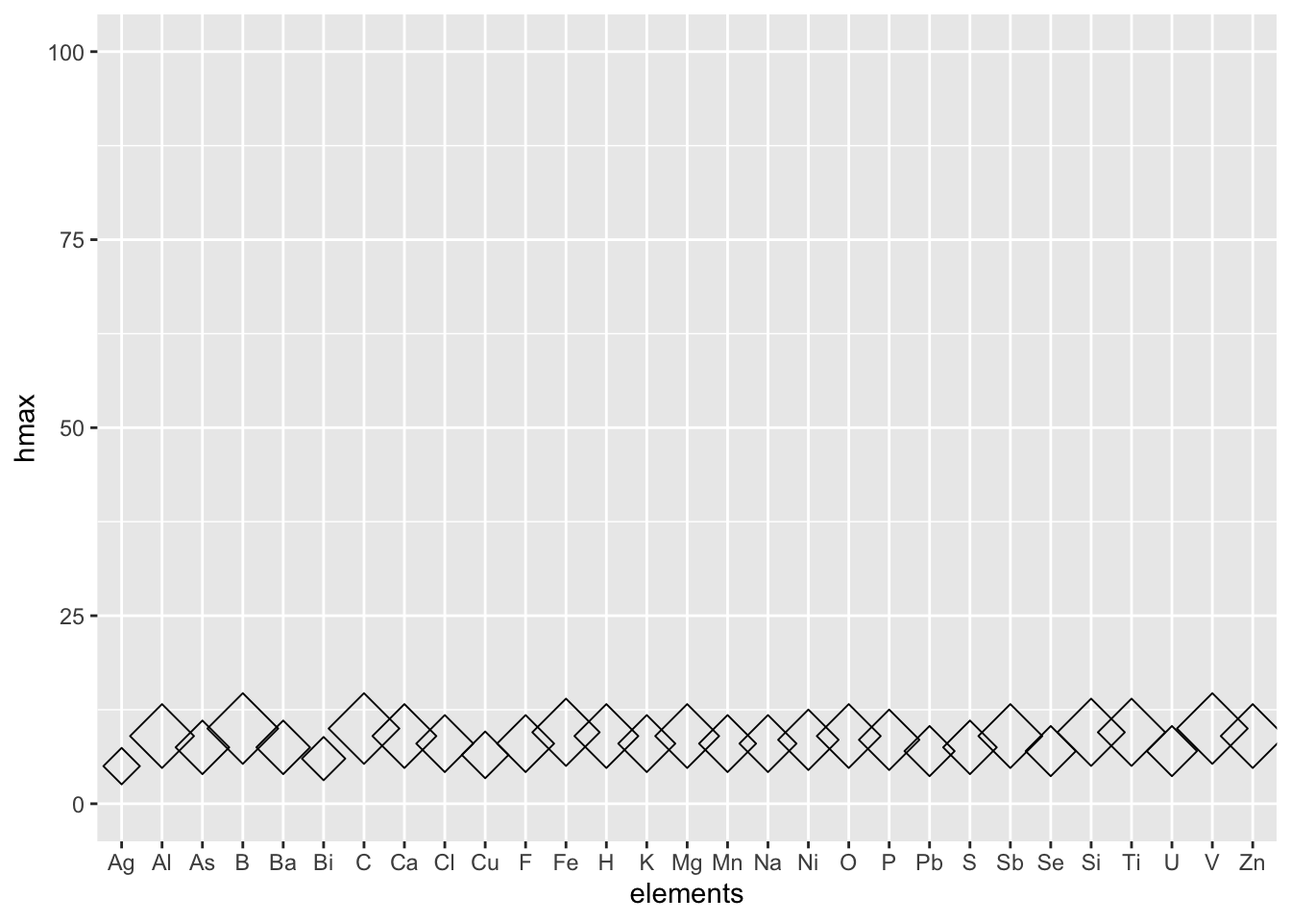
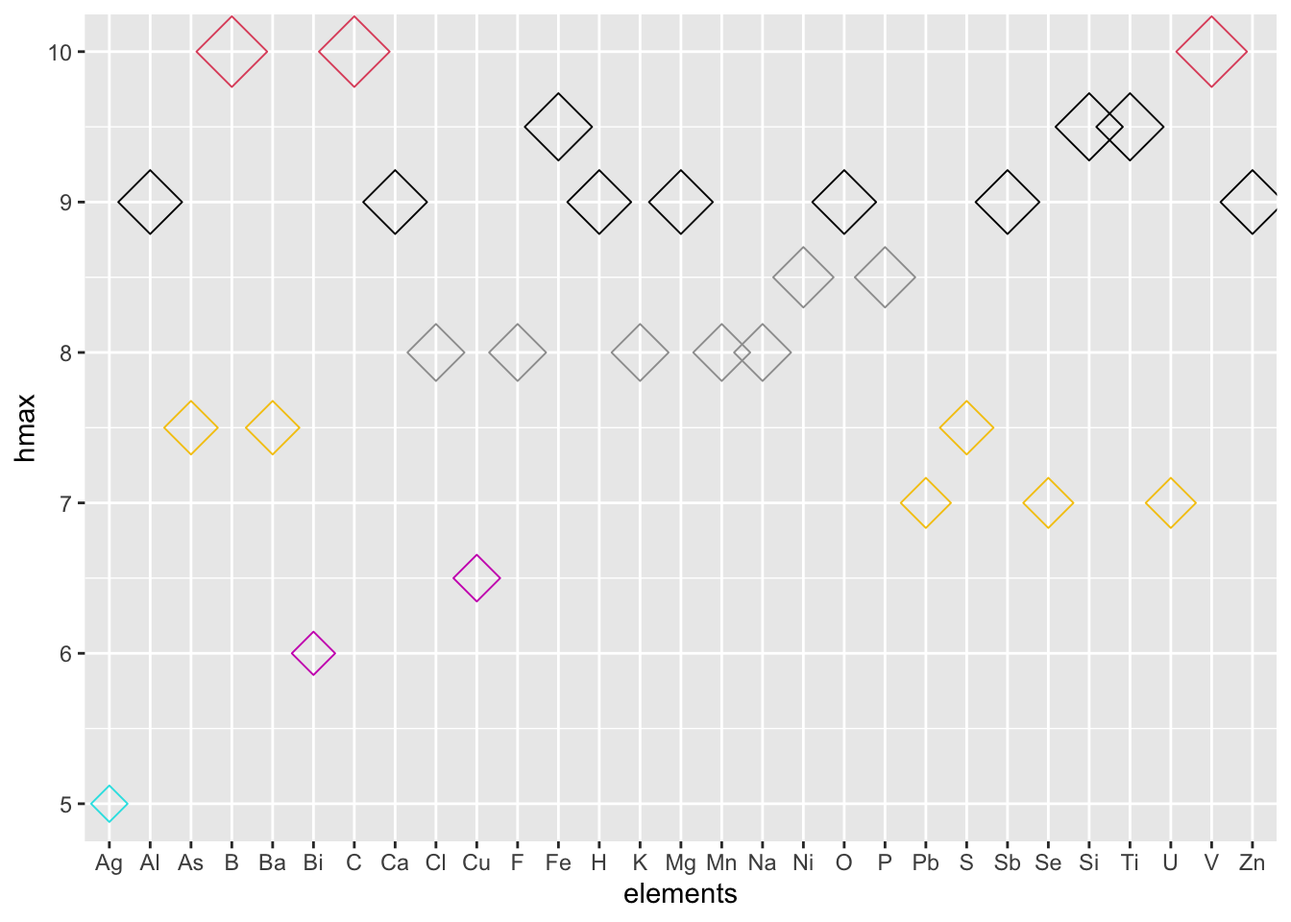
assg4 plus

Changed region(s): [[0.0312, 0.0, 0.9688, 1.0], [0.125, 0.0, 0.3125, 0.0938], [0.9375, 0.2188, 0.9688, 0.25]]

diff --git a/docs/posts/assignment-4/index.html b/docs/posts/assignment-4/index.html
@@ -221,7 +221,7 @@ code span.wa { color: #60a0b0; font-weight: bold; font-style: italic; } /* Warni
 <summary>Code</summary>
 <div class="sourceCode cell-code" id="cb1"><pre class="sourceCode r code-with-copy"><code class="sourceCode r"><span id="cb1-1"><a href="#cb1-1" aria-hidden="true" tabindex="-1"></a><span class="fu">library</span>(tidyverse)</span>
 <span id="cb1-2"><a href="#cb1-2" aria-hidden="true" tabindex="-1"></a><span class="co"># result &lt;- read.csv(file = 'total_elements_mindat.csv')</span></span>
-<span id="cb1-3"><a href="#cb1-3" aria-hidden="true" tabindex="-1"></a>df_72 <span class="ot">&lt;-</span> <span class="fu">read.csv</span>(<span class="at">file =</span> <span class="st">'hardness.csv'</span>)</span>
+<span id="cb1-3"><a href="#cb1-3" aria-hidden="true" tabindex="-1"></a><span class="co"># df_72 &lt;- read.csv(file = 'hardness.csv')</span></span>
 <span id="cb1-4"><a href="#cb1-4" aria-hidden="true" tabindex="-1"></a>df_30 <span class="ot">&lt;-</span> <span class="fu">read.csv</span>(<span class="at">file =</span> <span class="st">'hardness_30.csv'</span>)</span></code><button title="Copy to Clipboard" class="code-copy-button"><i class="bi"></i></button></pre></div>
 </details>
 </div>
@@ -247,9 +247,22 @@ code span.wa { color: #60a0b0; font-weight: bold; font-style: italic; } /* Warni
 </div>
 <details>
 <summary>Code</summary>
-<div class="sourceCode cell-code" id="cb4"><pre class="sourceCode r code-with-copy"><code class="sourceCode r"><span id="cb4-1"><a href="#cb4-1" aria-hidden="true" tabindex="-1"></a><span class="fu">ggplot</span>(df_30, <span class="fu">aes</span>(<span class="at">x=</span>elements, <span class="at">y=</span>X)) <span class="sc">+</span></span>
-<span id="cb4-2"><a href="#cb4-2" aria-hidden="true" tabindex="-1"></a>  <span class="fu">geom_point</span>(<span class="at">size=</span><span class="dv">2</span>, <span class="at">shape=</span><span class="dv">23</span>)</span></code><button title="Copy to Clipboard" class="code-copy-button"><i class="bi"></i></button></pre></div>
+<div class="sourceCode cell-code" id="cb4"><pre class="sourceCode r code-with-copy"><code class="sourceCode r"><span id="cb4-1"><a href="#cb4-1" aria-hidden="true" tabindex="-1"></a><span class="co"># ggplot(df_30, aes(x=elements, y=X)) +</span></span>
+<span id="cb4-2"><a href="#cb4-2" aria-hidden="true" tabindex="-1"></a><span class="fu">ggplot</span>(df_30, <span class="fu">aes</span>(<span class="at">x=</span><span class="fu">factor</span>(elements, <span class="at">level=</span>elements), <span class="at">y=</span>X)) <span class="sc">+</span></span>
+<span id="cb4-3"><a href="#cb4-3" aria-hidden="true" tabindex="-1"></a>  <span class="fu">geom_point</span>(<span class="at">size=</span><span class="dv">2</span>, <span class="at">shape=</span><span class="fu">as.integer</span>(df_30<span class="sc">$</span>X))</span></code><button title="Copy to Clipboard" class="code-copy-button"><i class="bi"></i></button></pre></div>
 </details>
+<div class="cell-output cell-output-stderr">
+<pre><code>Warning in grid.Call.graphics(C_points, x$x, x$y, x$pch, x$size): unimplemented
+pch value '26'</code></pre>
+</div>
+<div class="cell-output cell-output-stderr">
+<pre><code>Warning in grid.Call.graphics(C_points, x$x, x$y, x$pch, x$size): unimplemented
+pch value '27'</code></pre>
+</div>
+<div class="cell-output cell-output-stderr">
+<pre><code>Warning in grid.Call.graphics(C_points, x$x, x$y, x$pch, x$size): unimplemented
+pch value '28'</code></pre>
+</div>
 <div class="cell-output-display">
 <p><img src="index_files/figure-html/unnamed-chunk-2-1.png" class="img-fluid" width="672"></p>
 </div>
@@ -257,25 +270,13 @@ code span.wa { color: #60a0b0; font-weight: bold; font-style: italic; } /* Warni
 </section>
 <section id="discriminability" class="level3">
 <h3 class="anchored" data-anchor-id="discriminability">Discriminability</h3>
+<p>In terms of discriminability, we believe the larger the axis, the more details can viz to reveal.</p>
 <div class="cell">
 <details>
 <summary>Code</summary>
-<div class="sourceCode cell-code" id="cb5"><pre class="sourceCode r code-with-copy"><code class="sourceCode r"><span id="cb5-1"><a href="#cb5-1" aria-hidden="true" tabindex="-1"></a><span class="fu">head</span>(df_30)</span></code><button title="Copy to Clipboard" class="code-copy-button"><i class="bi"></i></button></pre></div>
-</details>
-<div class="cell-output cell-output-stdout">
-<pre><code>  X elements hmin hmin_mineral hmax hmax_mineral hmean
-1 0        H  0.5    Rectorite    9    Bahianite    NA
-2 1        B  1.0   Barberiite   10  Qingsongite    NA
-3 2        C  1.0    Acetamide   10      Diamond    NA
-4 3        O  0.5    Rectorite    9    Bahianite    NA
-5 4        F  1.0   Barberiite    8        Topaz    NA
-6 5       Na  0.5    Rectorite    8 Diaoyudaoite    NA</code></pre>
-</div>
-<details>
-<summary>Code</summary>
-<div class="sourceCode cell-code" id="cb7"><pre class="sourceCode r code-with-copy"><code class="sourceCode r"><span id="cb7-1"><a href="#cb7-1" aria-hidden="true" tabindex="-1"></a><span class="fu">ggplot</span>(df_30, <span class="fu">aes</span>(<span class="at">x=</span>elements, <span class="at">y=</span>hmin)) <span class="sc">+</span></span>
-<span id="cb7-2"><a href="#cb7-2" aria-hidden="true" tabindex="-1"></a>  <span class="fu">ylim</span>(<span class="dv">0</span>, <span class="dv">100</span>) <span class="sc">+</span></span>
-<span id="cb7-3"><a href="#cb7-3" aria-hidden="true" tabindex="-1"></a>  <span class="fu">geom_point</span>(<span class="at">size=</span><span class="dv">2</span>, <span class="at">shape=</span><span class="dv">23</span>)</span></code><button title="Copy to Clipboard" class="code-copy-button"><i class="bi"></i></button></pre></div>
+<div class="sourceCode cell-code" id="cb8"><pre class="sourceCode r code-with-copy"><code class="sourceCode r"><span id="cb8-1"><a href="#cb8-1" aria-hidden="true" tabindex="-1"></a><span class="fu">ggplot</span>(df_30, <span class="fu">aes</span>(<span class="at">x=</span>elements, <span class="at">y=</span>hmin)) <span class="sc">+</span></span>
+<span id="cb8-2"><a href="#cb8-2" aria-hidden="true" tabindex="-1"></a>  <span class="fu">ylim</span>(<span class="dv">0</span>, <span class="dv">100</span>) <span class="sc">+</span></span>
+<span id="cb8-3"><a href="#cb8-3" aria-hidden="true" tabindex="-1"></a>  <span class="fu">geom_point</span>(<span class="at">size=</span><span class="dv">2</span>, <span class="at">shape=</span><span class="dv">23</span>)</span></code><button title="Copy to Clipboard" class="code-copy-button"><i class="bi"></i></button></pre></div>
 </details>
 <div class="cell-output-display">
 <p><img src="index_files/figure-html/unnamed-chunk-3-1.png" class="img-fluid" width="672"></p>
@@ -284,55 +285,30 @@ code span.wa { color: #60a0b0; font-weight: bold; font-style: italic; } /* Warni
 </section>
 <section id="separability" class="level3">
 <h3 class="anchored" data-anchor-id="separability">Separability</h3>
+<p>We noticed that the values of ‘hmin’ are too small to tell, so we amplified it by applying exponential transform.</p>
 <div class="cell">
 <details>
 <summary>Code</summary>
-<div class="sourceCode cell-code" id="cb8"><pre class="sourceCode r code-with-copy"><code class="sourceCode r"><span id="cb8-1"><a href="#cb8-1" aria-hidden="true" tabindex="-1"></a><span class="fu">head</span>(df_30)</span></code><button title="Copy to Clipboard" class="code-copy-button"><i class="bi"></i></button></pre></div>
-</details>
-<div class="cell-output cell-output-stdout">
-<pre><code>  X elements hmin hmin_mineral hmax hmax_mineral hmean
-1 0        H  0.5    Rectorite    9    Bahianite    NA
-2 1        B  1.0   Barberiite   10  Qingsongite    NA
-3 2        C  1.0    Acetamide   10      Diamond    NA
-4 3        O  0.5    Rectorite    9    Bahianite    NA
-5 4        F  1.0   Barberiite    8        Topaz    NA
-6 5       Na  0.5    Rectorite    8 Diaoyudaoite    NA</code></pre>
-</div>
-<details>
-<summary>Code</summary>
-<div class="sourceCode cell-code" id="cb10"><pre class="sourceCode r code-with-copy"><code class="sourceCode r"><span id="cb10-1"><a href="#cb10-1" aria-hidden="true" tabindex="-1"></a><span class="fu">ggplot</span>(df_30, <span class="fu">aes</span>(<span class="at">x=</span>elements, <span class="at">y=</span><span class="fu">exp</span>(hmin))) <span class="sc">+</span></span>
-<span id="cb10-2"><a href="#cb10-2" aria-hidden="true" tabindex="-1"></a>  <span class="fu">geom_point</span>(<span class="at">size=</span><span class="dv">2</span>, <span class="at">shape=</span><span class="dv">23</span>)</span></code><button title="Copy to Clipboard" class="code-copy-button"><i class="bi"></i></button></pre></div>
+<div class="sourceCode cell-code" id="cb9"><pre class="sourceCode r code-with-copy"><code class="sourceCode r"><span id="cb9-1"><a href="#cb9-1" aria-hidden="true" tabindex="-1"></a><span class="fu">ggplot</span>(df_30, <span class="fu">aes</span>(<span class="at">x=</span>elements, <span class="at">y=</span><span class="fu">exp</span>(hmin))) <span class="sc">+</span></span>
+<span id="cb9-2"><a href="#cb9-2" aria-hidden="true" tabindex="-1"></a>  <span class="fu">geom_point</span>(<span class="at">size=</span><span class="dv">2</span>, <span class="at">shape=</span><span class="dv">23</span>)</span></code><button title="Copy to Clipboard" class="code-copy-button"><i class="bi"></i></button></pre></div>
 </details>
 <div class="cell-output-display">
 <p><img src="index_files/figure-html/unnamed-chunk-4-1.png" class="img-fluid" width="672"></p>
 </div>
 <details>
 <summary>Code</summary>
-<div class="sourceCode cell-code" id="cb11"><pre class="sourceCode r code-with-copy"><code class="sourceCode r"><span id="cb11-1"><a href="#cb11-1" aria-hidden="true" tabindex="-1"></a>  <span class="co">#scale_y_continuous(trans='log2')</span></span></code><button title="Copy to Clipboard" class="code-copy-button"><i class="bi"></i></button></pre></div>
+<div class="sourceCode cell-code" id="cb10"><pre class="sourceCode r code-with-copy"><code class="sourceCode r"><span id="cb10-1"><a href="#cb10-1" aria-hidden="true" tabindex="-1"></a>  <span class="co">#scale_y_continuous(trans='log2')</span></span></code><button title="Copy to Clipboard" class="code-copy-button"><i class="bi"></i></button></pre></div>
 </details>
 </div>
 </section>
 <section id="popout" class="level3">
 <h3 class="anchored" data-anchor-id="popout">Popout</h3>
+<p>Nothing can be more striking than the areas of the scatters.</p>
 <div class="cell">
 <details>
 <summary>Code</summary>
-<div class="sourceCode cell-code" id="cb12"><pre class="sourceCode r code-with-copy"><code class="sourceCode r"><span id="cb12-1"><a href="#cb12-1" aria-hidden="true" tabindex="-1"></a><span class="fu">head</span>(df_30)</span></code><button title="Copy to Clipboard" class="code-copy-button"><i class="bi"></i></button></pre></div>
-</details>
-<div class="cell-output cell-output-stdout">
-<pre><code>  X elements hmin hmin_mineral hmax hmax_mineral hmean
-1 0        H  0.5    Rectorite    9    Bahianite    NA
-2 1        B  1.0   Barberiite   10  Qingsongite    NA
-3 2        C  1.0    Acetamide   10      Diamond    NA
-4 3        O  0.5    Rectorite    9    Bahianite    NA
-5 4        F  1.0   Barberiite    8        Topaz    NA
-6 5       Na  0.5    Rectorite    8 Diaoyudaoite    NA</code></pre>
-</div>
-<details>
-<summary>Code</summary>
-<div class="sourceCode cell-code" id="cb14"><pre class="sourceCode r code-with-copy"><code class="sourceCode r"><span id="cb14-1"><a href="#cb14-1" aria-hidden="true" tabindex="-1"></a><span class="fu">ggplot</span>(df_30, <span class="fu">aes</span>(<span class="at">x=</span>elements, <span class="at">y=</span>hmax)) <span class="sc">+</span></span>
-<span id="cb14-2"><a href="#cb14-2" aria-hidden="true" tabindex="-1"></a>  <span class="fu">ylim</span>(<span class="dv">0</span>, <span class="dv">100</span>) <span class="sc">+</span></span>
-<span id="cb14-3"><a href="#cb14-3" aria-hidden="true" tabindex="-1"></a>  <span class="fu">geom_point</span>(<span class="at">size=</span>df_30<span class="sc">$</span>hmax, <span class="at">shape=</span><span class="dv">23</span>)</span></code><button title="Copy to Clipboard" class="code-copy-button"><i class="bi"></i></button></pre></div>
+<div class="sourceCode cell-code" id="cb11"><pre class="sourceCode r code-with-copy"><code class="sourceCode r"><span id="cb11-1"><a href="#cb11-1" aria-hidden="true" tabindex="-1"></a><span class="fu">ggplot</span>(df_30, <span class="fu">aes</span>(<span class="at">x=</span>elements, <span class="at">y=</span>hmax)) <span class="sc">+</span></span>
+<span id="cb11-2"><a href="#cb11-2" aria-hidden="true" tabindex="-1"></a>  <span class="fu">geom_point</span>(<span class="at">size=</span>df_30<span class="sc">$</span>hmax, <span class="at">shape=</span><span class="dv">23</span>, <span class="at">colour =</span> <span class="fu">factor</span>(<span class="fu">as.integer</span>(df_30<span class="sc">$</span>hmax)))</span></code><button title="Copy to Clipboard" class="code-copy-button"><i class="bi"></i></button></pre></div>
 </details>
 <div class="cell-output-display">
 <p><img src="index_files/figure-html/unnamed-chunk-5-1.png" class="img-fluid" width="672"></p>
@@ -530,62 +506,62 @@ window.document.addEventListener("DOMContentLoaded", function (event) {
   }
 });
 </script><div class="modal fade" id="quarto-embedded-source-code-modal" tabindex="-1" aria-labelledby="quarto-embedded-source-code-modal-label" aria-hidden="true"><div class="modal-dialog modal-dialog-scrollable"><div class="modal-content"><div class="modal-header"><h5 class="modal-title" id="quarto-embedded-source-code-modal-label">Source Code</h5><button class="btn-close" data-bs-dismiss="modal"></button></div><div class="modal-body"><div class="">
-<div class="sourceCode" id="cb15" data-shortcodes="false"><pre class="sourceCode markdown code-with-copy"><code class="sourceCode markdown"><span id="cb15-1"><a href="#cb15-1" aria-hidden="true" tabindex="-1"></a><span class="co">---</span></span>
-<span id="cb15-2"><a href="#cb15-2" aria-hidden="true" tabindex="-1"></a><span class="an">title:</span><span class="co"> "Assignment 4"</span></span>
-<span id="cb15-3"><a href="#cb15-3" aria-hidden="true" tabindex="-1"></a><span class="an">author:</span><span class="co"> "Jiyin Zhang"</span></span>
-<span id="cb15-4"><a href="#cb15-4" aria-hidden="true" tabindex="-1"></a><span class="an">subtitle:</span><span class="co"> "Marks and Channels"</span></span>
-<span id="cb15-5"><a href="#cb15-5" aria-hidden="true" tabindex="-1"></a><span class="an">date:</span><span class="co"> "2023-02-16"</span></span>
-<span id="cb15-6"><a href="#cb15-6" aria-hidden="true" tabindex="-1"></a><span class="an">categories:</span><span class="co"> [Assignment, DataViz]</span></span>
-<span id="cb15-7"><a href="#cb15-7" aria-hidden="true" tabindex="-1"></a><span class="an">image:</span><span class="co"> shiny_shit.jpg</span></span>
-<span id="cb15-8"><a href="#cb15-8" aria-hidden="true" tabindex="-1"></a><span class="an">code-fold:</span><span class="co"> true</span></span>
-<span id="cb15-9"><a href="#cb15-9" aria-hidden="true" tabindex="-1"></a><span class="an">code-tools:</span><span class="co"> true</span></span>
-<span id="cb15-10"><a href="#cb15-10" aria-hidden="true" tabindex="-1"></a><span class="an">description:</span><span class="co"> "A clever description that describes the stuff"</span></span>
-<span id="cb15-11"><a href="#cb15-11" aria-hidden="true" tabindex="-1"></a><span class="an">format:</span><span class="co"> html</span></span>
-<span id="cb15-12"><a href="#cb15-12" aria-hidden="true" tabindex="-1"></a><span class="co">---</span></span>
-<span id="cb15-13"><a href="#cb15-13" aria-hidden="true" tabindex="-1"></a></span>
-<span id="cb15-14"><a href="#cb15-14" aria-hidden="true" tabindex="-1"></a><span class="fu">## Import data </span></span>
-<span id="cb15-17"><a href="#cb15-17" aria-hidden="true" tabindex="-1"></a><span class="in">```{r}</span></span>
-<span id="cb15-18"><a href="#cb15-18" aria-hidden="true" tabindex="-1"></a><span class="co">#| code-fold: true</span></span>
-<span id="cb15-19"><a href="#cb15-19" aria-hidden="true" tabindex="-1"></a><span class="co">#| code-summary: "Code"</span></span>
-<span id="cb15-20"><a href="#cb15-20" aria-hidden="true" tabindex="-1"></a><span class="co">#| output: false</span></span>
-<span id="cb15-21"><a href="#cb15-21" aria-hidden="true" tabindex="-1"></a><span class="fu">library</span>(tidyverse)</span>
-<span id="cb15-22"><a href="#cb15-22" aria-hidden="true" tabindex="-1"></a><span class="co"># result &lt;- read.csv(file = 'total_elements_mindat.csv')</span></span>
-<span id="cb15-23"><a href="#cb15-23" aria-hidden="true" tabindex="-1"></a>df_72 <span class="ot">&lt;-</span> <span class="fu">read.csv</span>(<span class="at">file =</span> <span class="st">'hardness.csv'</span>)</span>
-<span id="cb15-24"><a href="#cb15-24" aria-hidden="true" tabindex="-1"></a>df_30 <span class="ot">&lt;-</span> <span class="fu">read.csv</span>(<span class="at">file =</span> <span class="st">'hardness_30.csv'</span>)</span>
-<span id="cb15-25"><a href="#cb15-25" aria-hidden="true" tabindex="-1"></a><span class="in">```</span></span>
-<span id="cb15-26"><a href="#cb15-26" aria-hidden="true" tabindex="-1"></a></span>
-<span id="cb15-27"><a href="#cb15-27" aria-hidden="true" tabindex="-1"></a><span class="fu">## Funny visualization</span></span>
-<span id="cb15-28"><a href="#cb15-28" aria-hidden="true" tabindex="-1"></a><span class="fu">### Expressiveness and Effectiveness</span></span>
-<span id="cb15-29"><a href="#cb15-29" aria-hidden="true" tabindex="-1"></a>Our main theme is about the hardness of minerals. To best demonstrate the characteristic of our elements list, I choose to visualize the index of the elements.</span>
-<span id="cb15-32"><a href="#cb15-32" aria-hidden="true" tabindex="-1"></a><span class="in">```{r}</span></span>
-<span id="cb15-33"><a href="#cb15-33" aria-hidden="true" tabindex="-1"></a><span class="fu">head</span>(df_30)</span>
-<span id="cb15-34"><a href="#cb15-34" aria-hidden="true" tabindex="-1"></a><span class="fu">ggplot</span>(df_30, <span class="fu">aes</span>(<span class="at">x=</span>elements, <span class="at">y=</span>X)) <span class="sc">+</span></span>
-<span id="cb15-35"><a href="#cb15-35" aria-hidden="true" tabindex="-1"></a>  <span class="fu">geom_point</span>(<span class="at">size=</span><span class="dv">2</span>, <span class="at">shape=</span><span class="dv">23</span>)</span>
-<span id="cb15-36"><a href="#cb15-36" aria-hidden="true" tabindex="-1"></a><span class="in">```</span></span>
-<span id="cb15-37"><a href="#cb15-37" aria-hidden="true" tabindex="-1"></a><span class="fu">### Discriminability</span></span>
-<span id="cb15-38"><a href="#cb15-38" aria-hidden="true" tabindex="-1"></a></span>
-<span id="cb15-41"><a href="#cb15-41" aria-hidden="true" tabindex="-1"></a><span class="in">```{r}</span></span>
-<span id="cb15-42"><a href="#cb15-42" aria-hidden="true" tabindex="-1"></a><span class="fu">head</span>(df_30)</span>
-<span id="cb15-43"><a href="#cb15-43" aria-hidden="true" tabindex="-1"></a><span class="fu">ggplot</span>(df_30, <span class="fu">aes</span>(<span class="at">x=</span>elements, <span class="at">y=</span>hmin)) <span class="sc">+</span></span>
-<span id="cb15-44"><a href="#cb15-44" aria-hidden="true" tabindex="-1"></a>  <span class="fu">ylim</span>(<span class="dv">0</span>, <span class="dv">100</span>) <span class="sc">+</span></span>
-<span id="cb15-45"><a href="#cb15-45" aria-hidden="true" tabindex="-1"></a>  <span class="fu">geom_point</span>(<span class="at">size=</span><span class="dv">2</span>, <span class="at">shape=</span><span class="dv">23</span>)</span>
-<span id="cb15-46"><a href="#cb15-46" aria-hidden="true" tabindex="-1"></a><span class="in">```</span></span>
-<span id="cb15-47"><a href="#cb15-47" aria-hidden="true" tabindex="-1"></a><span class="fu">### Separability</span></span>
-<span id="cb15-50"><a href="#cb15-50" aria-hidden="true" tabindex="-1"></a><span class="in">```{r}</span></span>
-<span id="cb15-51"><a href="#cb15-51" aria-hidden="true" tabindex="-1"></a><span class="fu">head</span>(df_30)</span>
-<span id="cb15-52"><a href="#cb15-52" aria-hidden="true" tabindex="-1"></a><span class="fu">ggplot</span>(df_30, <span class="fu">aes</span>(<span class="at">x=</span>elements, <span class="at">y=</span><span class="fu">exp</span>(hmin))) <span class="sc">+</span></span>
-<span id="cb15-53"><a href="#cb15-53" aria-hidden="true" tabindex="-1"></a>  <span class="fu">geom_point</span>(<span class="at">size=</span><span class="dv">2</span>, <span class="at">shape=</span><span class="dv">23</span>)</span>
-<span id="cb15-54"><a href="#cb15-54" aria-hidden="true" tabindex="-1"></a>  <span class="co">#scale_y_continuous(trans='log2')</span></span>
-<span id="cb15-55"><a href="#cb15-55" aria-hidden="true" tabindex="-1"></a></span>
-<span id="cb15-56"><a href="#cb15-56" aria-hidden="true" tabindex="-1"></a><span class="in">```</span></span>
-<span id="cb15-57"><a href="#cb15-57" aria-hidden="true" tabindex="-1"></a></span>
-<span id="cb15-58"><a href="#cb15-58" aria-hidden="true" tabindex="-1"></a><span class="fu">### Popout</span></span>
-<span id="cb15-61"><a href="#cb15-61" aria-hidden="true" tabindex="-1"></a><span class="in">```{r}</span></span>
-<span id="cb15-62"><a href="#cb15-62" aria-hidden="true" tabindex="-1"></a><span class="fu">head</span>(df_30)</span>
-<span id="cb15-63"><a href="#cb15-63" aria-hidden="true" tabindex="-1"></a><span class="fu">ggplot</span>(df_30, <span class="fu">aes</span>(<span class="at">x=</span>elements, <span class="at">y=</span>hmax)) <span class="sc">+</span></span>
-<span id="cb15-64"><a href="#cb15-64" aria-hidden="true" tabindex="-1"></a>  <span class="fu">ylim</span>(<span class="dv">0</span>, <span class="dv">100</span>) <span class="sc">+</span></span>
-<span id="cb15-65"><a href="#cb15-65" aria-hidden="true" tabindex="-1"></a>  <span class="fu">geom_point</span>(<span class="at">size=</span>df_30<span class="sc">$</span>hmax, <span class="at">shape=</span><span class="dv">23</span>)</span>
-<span id="cb15-66"><a href="#cb15-66" aria-hidden="true" tabindex="-1"></a><span class="in">```</span></span>
+<div class="sourceCode" id="cb12" data-shortcodes="false"><pre class="sourceCode markdown code-with-copy"><code class="sourceCode markdown"><span id="cb12-1"><a href="#cb12-1" aria-hidden="true" tabindex="-1"></a><span class="co">---</span></span>
+<span id="cb12-2"><a href="#cb12-2" aria-hidden="true" tabindex="-1"></a><span class="an">title:</span><span class="co"> "Assignment 4"</span></span>
+<span id="cb12-3"><a href="#cb12-3" aria-hidden="true" tabindex="-1"></a><span class="an">author:</span><span class="co"> "Jiyin Zhang"</span></span>
+<span id="cb12-4"><a href="#cb12-4" aria-hidden="true" tabindex="-1"></a><span class="an">subtitle:</span><span class="co"> "Marks and Channels"</span></span>
+<span id="cb12-5"><a href="#cb12-5" aria-hidden="true" tabindex="-1"></a><span class="an">date:</span><span class="co"> "2023-02-16"</span></span>
+<span id="cb12-6"><a href="#cb12-6" aria-hidden="true" tabindex="-1"></a><span class="an">categories:</span><span class="co"> [Assignment, DataViz]</span></span>
+<span id="cb12-7"><a href="#cb12-7" aria-hidden="true" tabindex="-1"></a><span class="an">image:</span><span class="co"> shiny_shit.jpg</span></span>
+<span id="cb12-8"><a href="#cb12-8" aria-hidden="true" tabindex="-1"></a><span class="an">code-fold:</span><span class="co"> true</span></span>
+<span id="cb12-9"><a href="#cb12-9" aria-hidden="true" tabindex="-1"></a><span class="an">code-tools:</span><span class="co"> true</span></span>
+<span id="cb12-10"><a href="#cb12-10" aria-hidden="true" tabindex="-1"></a><span class="an">description:</span><span class="co"> "A clever description that describes the stuff"</span></span>
+<span id="cb12-11"><a href="#cb12-11" aria-hidden="true" tabindex="-1"></a><span class="an">format:</span><span class="co"> html</span></span>
+<span id="cb12-12"><a href="#cb12-12" aria-hidden="true" tabindex="-1"></a><span class="co">---</span></span>
+<span id="cb12-13"><a href="#cb12-13" aria-hidden="true" tabindex="-1"></a></span>
+<span id="cb12-14"><a href="#cb12-14" aria-hidden="true" tabindex="-1"></a><span class="fu">## Import data </span></span>
+<span id="cb12-17"><a href="#cb12-17" aria-hidden="true" tabindex="-1"></a><span class="in">```{r}</span></span>
+<span id="cb12-18"><a href="#cb12-18" aria-hidden="true" tabindex="-1"></a><span class="co">#| code-fold: true</span></span>
+<span id="cb12-19"><a href="#cb12-19" aria-hidden="true" tabindex="-1"></a><span class="co">#| code-summary: "Code"</span></span>
+<span id="cb12-20"><a href="#cb12-20" aria-hidden="true" tabindex="-1"></a><span class="co">#| output: false</span></span>
+<span id="cb12-21"><a href="#cb12-21" aria-hidden="true" tabindex="-1"></a><span class="fu">library</span>(tidyverse)</span>
+<span id="cb12-22"><a href="#cb12-22" aria-hidden="true" tabindex="-1"></a><span class="co"># result &lt;- read.csv(file = 'total_elements_mindat.csv')</span></span>
+<span id="cb12-23"><a href="#cb12-23" aria-hidden="true" tabindex="-1"></a><span class="co"># df_72 &lt;- read.csv(file = 'hardness.csv')</span></span>
+<span id="cb12-24"><a href="#cb12-24" aria-hidden="true" tabindex="-1"></a>df_30 <span class="ot">&lt;-</span> <span class="fu">read.csv</span>(<span class="at">file =</span> <span class="st">'hardness_30.csv'</span>)</span>
+<span id="cb12-25"><a href="#cb12-25" aria-hidden="true" tabindex="-1"></a><span class="in">```</span></span>
+<span id="cb12-26"><a href="#cb12-26" aria-hidden="true" tabindex="-1"></a></span>
+<span id="cb12-27"><a href="#cb12-27" aria-hidden="true" tabindex="-1"></a><span class="fu">## Funny visualization</span></span>
+<span id="cb12-28"><a href="#cb12-28" aria-hidden="true" tabindex="-1"></a><span class="fu">### Expressiveness and Effectiveness</span></span>
+<span id="cb12-29"><a href="#cb12-29" aria-hidden="true" tabindex="-1"></a>Our main theme is about the hardness of minerals. To best demonstrate the characteristic of our elements list, I choose to visualize the index of the elements.</span>
+<span id="cb12-32"><a href="#cb12-32" aria-hidden="true" tabindex="-1"></a><span class="in">```{r}</span></span>
+<span id="cb12-33"><a href="#cb12-33" aria-hidden="true" tabindex="-1"></a><span class="fu">head</span>(df_30)</span>
+<span id="cb12-34"><a href="#cb12-34" aria-hidden="true" tabindex="-1"></a><span class="co"># ggplot(df_30, aes(x=elements, y=X)) +</span></span>
+<span id="cb12-35"><a href="#cb12-35" aria-hidden="true" tabindex="-1"></a><span class="fu">ggplot</span>(df_30, <span class="fu">aes</span>(<span class="at">x=</span><span class="fu">factor</span>(elements, <span class="at">level=</span>elements), <span class="at">y=</span>X)) <span class="sc">+</span></span>
+<span id="cb12-36"><a href="#cb12-36" aria-hidden="true" tabindex="-1"></a>  <span class="fu">geom_point</span>(<span class="at">size=</span><span class="dv">2</span>, <span class="at">shape=</span><span class="fu">as.integer</span>(df_30<span class="sc">$</span>X))</span>
+<span id="cb12-37"><a href="#cb12-37" aria-hidden="true" tabindex="-1"></a><span class="in">```</span></span>
+<span id="cb12-38"><a href="#cb12-38" aria-hidden="true" tabindex="-1"></a></span>
+<span id="cb12-39"><a href="#cb12-39" aria-hidden="true" tabindex="-1"></a><span class="fu">### Discriminability</span></span>
+<span id="cb12-40"><a href="#cb12-40" aria-hidden="true" tabindex="-1"></a>In terms of discriminability, we believe the larger the axis, the more details can viz to reveal.</span>
+<span id="cb12-43"><a href="#cb12-43" aria-hidden="true" tabindex="-1"></a><span class="in">```{r}</span></span>
+<span id="cb12-44"><a href="#cb12-44" aria-hidden="true" tabindex="-1"></a><span class="fu">ggplot</span>(df_30, <span class="fu">aes</span>(<span class="at">x=</span>elements, <span class="at">y=</span>hmin)) <span class="sc">+</span></span>
+<span id="cb12-45"><a href="#cb12-45" aria-hidden="true" tabindex="-1"></a>  <span class="fu">ylim</span>(<span class="dv">0</span>, <span class="dv">100</span>) <span class="sc">+</span></span>
+<span id="cb12-46"><a href="#cb12-46" aria-hidden="true" tabindex="-1"></a>  <span class="fu">geom_point</span>(<span class="at">size=</span><span class="dv">2</span>, <span class="at">shape=</span><span class="dv">23</span>)</span>
+<span id="cb12-47"><a href="#cb12-47" aria-hidden="true" tabindex="-1"></a><span class="in">```</span></span>
+<span id="cb12-48"><a href="#cb12-48" aria-hidden="true" tabindex="-1"></a><span class="fu">### Separability</span></span>
+<span id="cb12-49"><a href="#cb12-49" aria-hidden="true" tabindex="-1"></a>We noticed that the values of 'hmin' are too small to tell, so we amplified it by applying exponential transform.</span>
+<span id="cb12-52"><a href="#cb12-52" aria-hidden="true" tabindex="-1"></a><span class="in">```{r}</span></span>
+<span id="cb12-53"><a href="#cb12-53" aria-hidden="true" tabindex="-1"></a><span class="fu">ggplot</span>(df_30, <span class="fu">aes</span>(<span class="at">x=</span>elements, <span class="at">y=</span><span class="fu">exp</span>(hmin))) <span class="sc">+</span></span>
+<span id="cb12-54"><a href="#cb12-54" aria-hidden="true" tabindex="-1"></a>  <span class="fu">geom_point</span>(<span class="at">size=</span><span class="dv">2</span>, <span class="at">shape=</span><span class="dv">23</span>)</span>
+<span id="cb12-55"><a href="#cb12-55" aria-hidden="true" tabindex="-1"></a>  <span class="co">#scale_y_continuous(trans='log2')</span></span>
+<span id="cb12-56"><a href="#cb12-56" aria-hidden="true" tabindex="-1"></a></span>
+<span id="cb12-57"><a href="#cb12-57" aria-hidden="true" tabindex="-1"></a><span class="in">```</span></span>
+<span id="cb12-58"><a href="#cb12-58" aria-hidden="true" tabindex="-1"></a></span>
+<span id="cb12-59"><a href="#cb12-59" aria-hidden="true" tabindex="-1"></a><span class="fu">### Popout</span></span>
+<span id="cb12-60"><a href="#cb12-60" aria-hidden="true" tabindex="-1"></a>Nothing can be more striking than the areas of the scatters. And guess what? We will also add some colors to make it as eye-catching as rainbow!</span>
+<span id="cb12-63"><a href="#cb12-63" aria-hidden="true" tabindex="-1"></a><span class="in">```{r}</span></span>
+<span id="cb12-64"><a href="#cb12-64" aria-hidden="true" tabindex="-1"></a><span class="fu">ggplot</span>(df_30, <span class="fu">aes</span>(<span class="at">x=</span>elements, <span class="at">y=</span>hmax)) <span class="sc">+</span></span>
+<span id="cb12-65"><a href="#cb12-65" aria-hidden="true" tabindex="-1"></a>  <span class="fu">geom_point</span>(<span class="at">size=</span>df_30<span class="sc">$</span>hmax, <span class="at">shape=</span><span class="dv">23</span>, <span class="at">colour =</span> <span class="fu">factor</span>(<span class="fu">as.integer</span>(df_30<span class="sc">$</span>hmax)))</span>
+<span id="cb12-66"><a href="#cb12-66" aria-hidden="true" tabindex="-1"></a><span class="in">```</span></span>
 </code><button title="Copy to Clipboard" class="code-copy-button"><i class="bi"></i></button></pre></div>
 </div></div></div></div></div>
 </div> <!-- /content -->

diff --git a/docs/index.html b/docs/index.html
@@ -173,7 +173,7 @@ ul.task-list li input[type="checkbox"] {
 
 <div class="quarto-listing quarto-listing-container-default" id="listing-listing">
 <div class="list quarto-listing-default">
-<div class="quarto-post image-right" data-index="0" data-categories="Assignment,DataViz" data-listing-date-sort="1676534400000" data-listing-file-modified-sort="1676584169156" data-listing-reading-time-sort="0.44">
+<div class="quarto-post image-right" data-index="0" data-categories="Assignment,DataViz" data-listing-date-sort="1676534400000" data-listing-file-modified-sort="1676588873650" data-listing-reading-time-sort="0.77">
 <div class="thumbnail">
 <p><a href="./posts/assignment-4/index.html"> <img src="./posts/assignment-4/shiny_shit.jpg" class="thumnail-image"> </a></p>
 </div>
